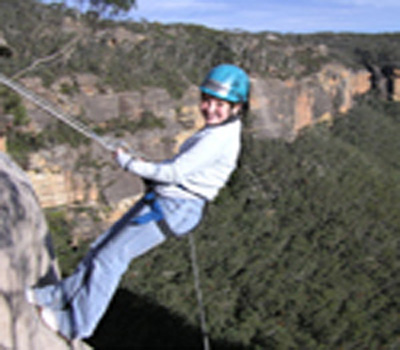
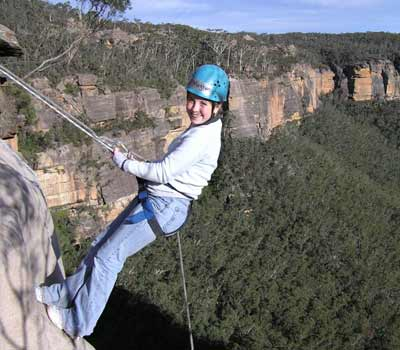
New images for slider, better text below it
Fixed smoothmenu ../img to img/

Changed main page title to International Student Volunteers

diff --git a/webroot/js/index.js b/webroot/js/index.js
@@ -15,6 +15,7 @@
 *********************************************************************/
 
 // array of image descriptions
+var ImageTitles = new Array();
 var ImageDescriptions = new Array();
 
 // alias to jQuery library, function noConflict release control of the $ variable 
@@ -225,6 +226,7 @@ function setupAccordionImageSlider()
             // draw aside all divs
             setMoveForAccordionDivs(g_hoveredSlideIndex);
 			
+			$j("div#ImageTitle").text(ImageTitles[divID.substring(6,7)-1]); 
 			$j("div#ImageDescrip").text(ImageDescriptions[divID.substring(6,7)-1]);  
 			
         }, 
@@ -290,6 +292,7 @@ function setMoveForAccordionDivs(index)
                     {marginLeft: newMargin+"px"}, 
                     {duration: animTime, easing: ACCORDION_EASING_METHOD});
             }
+			$j("div#ImageTitle").text(ImageTitles[i + 1]); 
 			$j("div#ImageDescrip").text(ImageDescriptions[i + 1]); 
             // go to next iteraction of loop
             continue;
@@ -388,6 +391,7 @@ function accordionPlay()
        
         for(var i = 0; i < g_slidedDivs.length; i++)
         {
+			$j("div#ImageTitle").text(ImageTitles[0]); 
 			$j("div#ImageDescrip").text(ImageDescriptions[0]); 
             // if div is currently moved we stop the animation
             // and set new animation for left margin
@@ -674,6 +678,7 @@ function setupAccordionControlPanel()
                  }                  
             }
             g_lastSlideMoveDirection = FORWARD;
+				$j("div#ImageTitle").text(ImageTitles[0]); 
 				$j("div#ImageDescrip").text(ImageDescriptions[0]);  
             mouseOutAccorOnAll(null);
             mouseOnAccor(g_slidedDivs[g_actualSlideImage].name);
@@ -775,7 +780,8 @@ function setupLoadingAsynchronousImagesForAccordion()
             // get image path from loader title attribute
 			var imageInformation = loader.attr('title').split('|');
             var imagePath = imageInformation[0];
-			ImageDescriptions[_index] = imageInformation[1];
+			ImageTitles[_index] = imageInformation[1];
+			ImageDescriptions[_index] = imageInformation[2];
             // create new image object
             var img = new Image();
             // set opacity for image to maximum

diff --git a/webroot/css/index.css b/webroot/css/index.css
@@ -9,7 +9,8 @@
         http://graphicriver.net/user/DigitalCavalry
 *********************************************************************/
 
-#ImageDescrip { margin-left: 45px; margin-top: 5px; height: 50px; width: 600px; font: 11px Verdana; }
+#ImageTitle { width: 600px; font: 13px Verdana; margin: 0; padding: 0; color: #000; font-weight: bold;}
+#ImageDescrip { height: 40px; width: 600px; font: 11px Verdana; color: #000; }
 
 
 /******************************** 
@@ -23,8 +24,8 @@
     background-color:#000; 
     position:relative;
     border:0px solid #EEE; 
-    margin-left:40px; 
     margin-top:15px;
+	margin-bottom: 10px;
 }
 
 .asyncImgLoadAccordion { clear: none; }
@@ -44,7 +45,7 @@
 .accordionImgDiv .slideStrip
 {
     position: absolute;
-    width: 90px;
+    width: 120px;
     height: 350px;
     left:0px;
     top:0px;
@@ -175,11 +176,10 @@
     text-align:right;
     width:250px;
     height:16px;
-    margin-right:40px;
     display:inline; 
     float:right; 
-    margin-bottom:5px; 
-    margin-top:5px;
+    margin: 20px 0 5px 0;
+	padding: 0;
 }
 
 #accorControlBtnDesc

diff --git a/webroot/css/common.css b/webroot/css/common.css
@@ -38,9 +38,6 @@ a
 
 body 
 {
-    background-image: url("../img/backgrounds/bg04.jpg");
-    background-repeat:no-repeat;
-    background-position: 50% 0%;
 
     background-color: #000;
     text-align:left;
@@ -1208,11 +1205,11 @@ body
 #sidebarMiniSliderContainer
 {
     /* 4:3 format*/
-    width:318px;  /* -2px for border */
+    width:290px;  /* -2px for border */
     height:238px;    
     border:0px solid #ccc;
     background-color: #000;
-    margin-bottom: 40px;
+    margin-bottom: 15px;
     position: relative;
     border: 0px solid #ddd;
     overflow:hidden;
@@ -1225,7 +1222,7 @@ body
 
 #sidebarMiniSliderContainer .slide
 {
-    width:320px; 
+    width:290px; 
     height:240px;
     position: absolute;
     left: 0px;
@@ -1264,7 +1261,7 @@ body
 
 #sidebarMiniSliderContainer .desc
 {
-    width: 310px;
+    width: 285px;
     padding-left: 5px;
     padding-right: 5px;
     padding-top: 5px;

diff --git a/webroot/main-page.html b/webroot/main-page.html
@@ -1,7 +1,7 @@
 <!DOCTYPE html PUBLIC "-//W3C//DTD XHTML 1.0 Strict//EN" "http://www.w3.org/TR/xhtml1/DTD/xhtml1-strict.dtd">
 <html xmlns="http://www.w3.org/1999/xhtml" lang="en" xml:lang="en">
 <head>
-<title>StudioBox HTML CSS Premium Template test</title>
+<title>International Student Volunteers</title>
 <meta http-equiv="Content-Type" content="text/html; charset=iso-8859-1" />
 <meta name="description" content="Site Template Theme" />
 <meta name="keywords" content="menus, website, template, your, key, words, here"/>

diff --git a/webroot/js/ddsmoothmenu-sub.js b/webroot/js/ddsmoothmenu-sub.js
@@ -16,7 +16,7 @@
 var ddsmoothmenu={
 
 //Specify full URL to down and right arrow images (23 is padding-right added to top level LIs with drop downs):
-arrowimages: {down:['downarrowclass', '../img/down.gif', 23], right:['rightarrowclass', '../img/right.gif']},
+arrowimages: {down:['downarrowclass', 'img/down.gif', 23], right:['rightarrowclass', 'img/right.gif']},
 
 transition: {overtime:300, outtime:300}, //duration of slide in/ out animation, in milliseconds
 shadow: {enable:false, offsetx:5, offsety:5},
